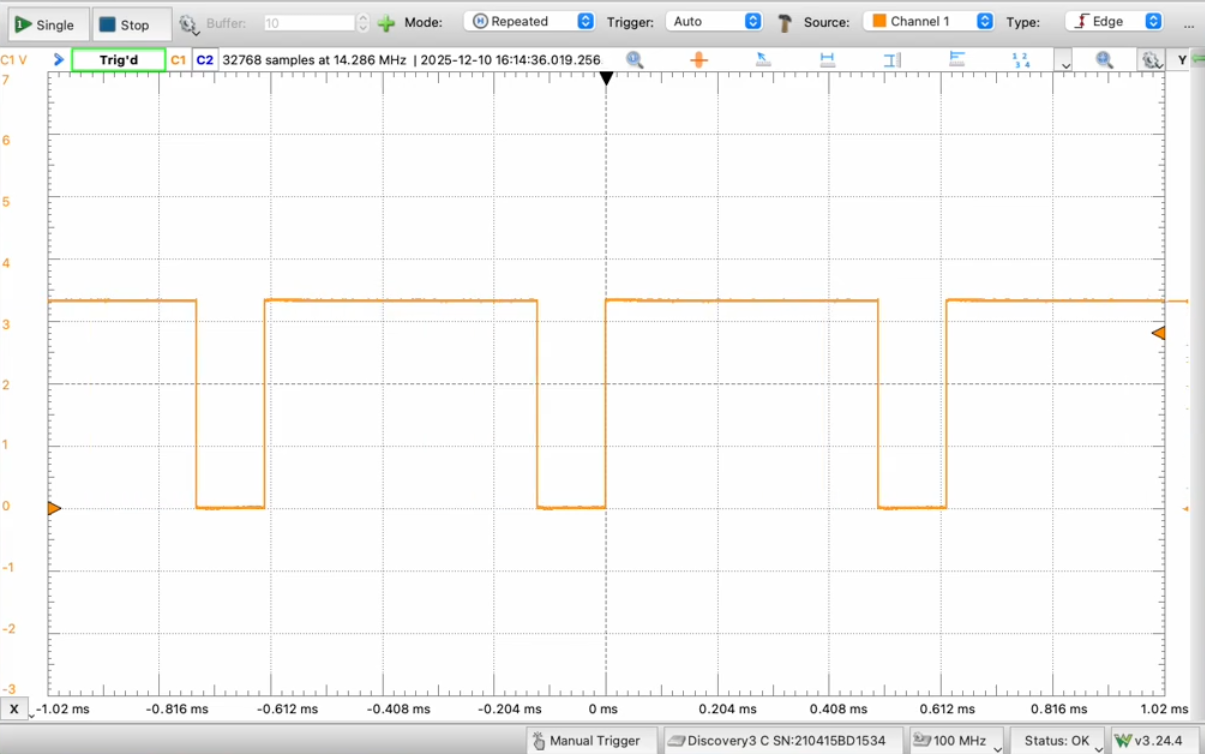
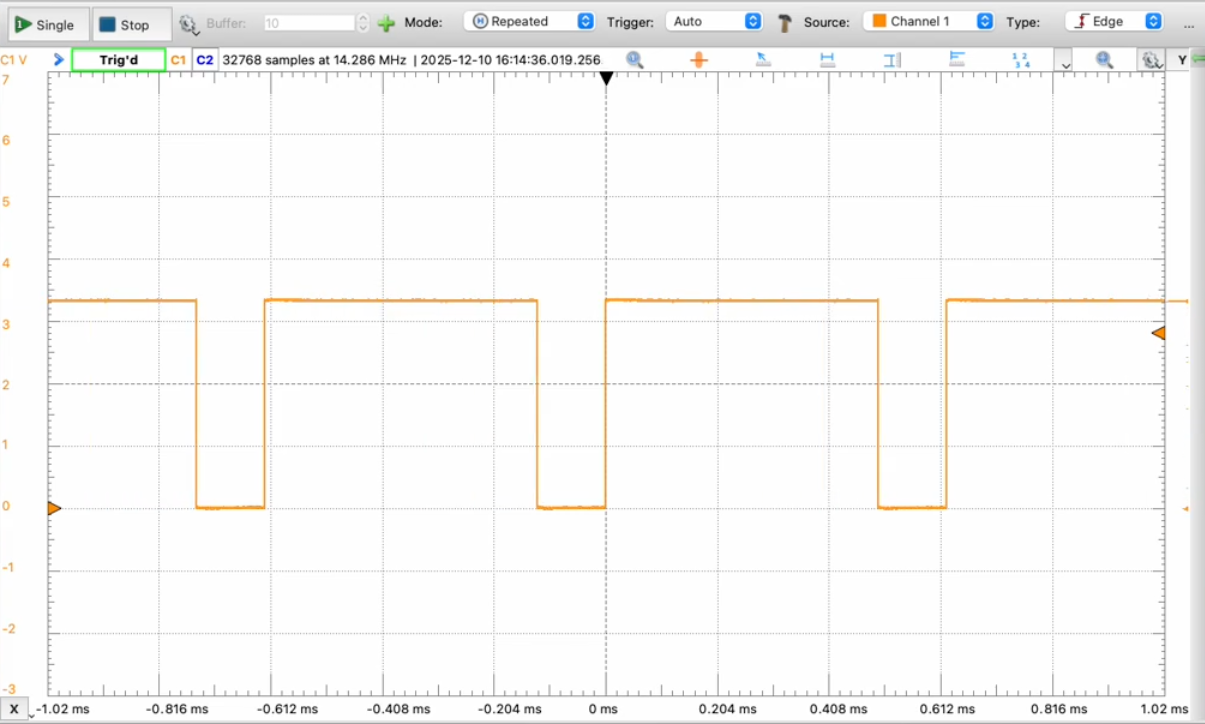
Day 11: crop the scope capture, project the motor circuit, and hand over
Cropped the Discovery banner off fig-pwm-scope.png. Added sl-day11-motor-circuit to
the deck -- the slide existed in the source but no deck entry projected it, which is
why the circuit was missing from the slides. Pointed fig-motor-circuit at
motor-circuit.png so Petra's own drawing can be dropped in with no source edit.

Stopped there deliberately: context was nearly exhausted, and applying four more
fixes on fumes is how half-applied edits get shipped. plans/day11-handover.md records
what is left, precisely enough to resume cold.

diff --git a/plans/day11-handover.md b/plans/day11-handover.md
@@ -1,0 +1,98 @@
+# Day 11 — handover: what is left after Petra's pass 3
+
+Written 2026-08-17, at the end of a session that ran out of context. The book and
+the deck are both built and clean; everything below is outstanding. Start a fresh
+session with `plans/CHAPTER-GENERATION-PROMPT.md`, then this file.
+
+**State:** `source/ch-motors.ptx` Day 11 (reading + Parts 1–6) and
+`assets/decks/day11.json` (47 slides). `build-all`, `check_rules`, `check_deck`,
+`check_starters` all clean. Gates 0, 1, 1.5, 2 and 3 have run; reviews are in
+`reviews/day11-gate{1,2,3}.md`. Petra has hand-passed the prose three times, so
+**her wording wins over any reviewer's**, and over anything in this file.
+
+---
+
+## 1. The motor circuit figure — she is supplying it
+
+She has the good one in her slides. **Tell her nothing more; she drops it at:**
+
+```
+assets/images/Day11-Motors/motor-circuit.png
+```
+
+That path is already referenced by `fig-motor-circuit` in the book and by
+`sl-day11-motor-circuit` in the deck, and is currently seeded with a placeholder I
+drew, which she has rejected. Overwriting the file is the whole job — **no source
+edit needed**. Delete nothing else.
+
+Her figure is the equivalent circuit from Day11 slide 7 (`slide07_img1.png`, 318×136,
+too small to use directly): V source, R_a, current i, and the motor as a generator
+producing e.
+
+## 2. `act-day11-speed-params` — three faults
+
+- **The formula in the introduction is wrong and is plain text.** It currently reads
+  `<m>\omega = V/(K_e + b R_a / K_t)</m>` inline in the introduction prose — check it
+  against `fig-equilibrium-speed`, fix it, and render it as the figure rather than
+  inline text so it looks like a formula. She has asked twice now for real math.
+- **The table is too small on the slide.** It is a `<tabular>` with `<col width>` of
+  55/45. Needs to project.
+- **Part (b) must be on the same slide.** I split the switch-on-current question out
+  into `act-day11-startup-current` purely to fix a 126 px overflow. She wants it back
+  on the slide with the table. So: merge `act-day11-startup-current` back into
+  `act-day11-speed-params` (and `inst-day11-startup-current` back into
+  `inst-day11-speed-params`), remove the two deck entries, and solve the overflow a
+  different way — the table itself is the space, so shrink the introduction, not the
+  content (S-9: split or compress spacing, never thin the prose).
+
+## 3. The H-bridge drawings — wrong transistors, wrong control-line placement
+
+`/tmp/mk_hbridge.py` is the generator (copy it into `scripts/` if it is to live on).
+It writes six files: `hbridge-in1-in2.svg`, `hbridge-cur-out1-out2.svg`,
+`hbridge-cur-out2-out1.svg`, `hbridge-brake.svg`, `hbridge-stop.svg`,
+`hbridge-shoot-through.svg`.
+
+Two corrections from her:
+
+- **Use the datasheet's transistor symbols**, the ones in her own figures — do not
+  substitute a different MOSFET rendering as I did. Reference: `slide11_665f7016.png`,
+  `slide12_8fcc0651.png`, `hbridge-in1-in2-ccw.png` (all still in the folder).
+- **IN1 goes to the left of the H and IN2 to the right, with the blue line, exactly as
+  she annotated it** in `hbridge-in1-in2-ccw.png`. My generator puts the control
+  brackets inside the bridge legs.
+
+Keep what is already right: stop mode drawn with the motor present and all four
+switches off; one drawing language across all six; the plain bridge carrying no traced
+current path, which is what stops it giving away `act-day11-diagonal` (P-15).
+
+## 4. `sl-day11-counter-compare` — bullets above the headline
+
+The slide has five `<li>` and a `ref` to `fig-pwm-counter-compare`, and the bullets
+render above the title. Try `room="compressed"`, or move some content to the figure
+caption. Check it in the player, not by measurement.
+
+## 5. Done this session, do not redo
+
+- `fig-pwm-scope.png` cropped to remove the "Discovery3 C" status bar (1205×754 → ×724).
+- `sl-day11-motor-circuit` added to the deck — it existed in the source but no deck
+  entry projected it, which is why the circuit was missing from the slides.
+
+## 6. Still open from Gate 3, not yet raised with her again
+
+- `tb6612-wiring-exercise2.png`: the D11/D12/D13 pin names are ~9 px and rotated, so
+  the slide asserts three pin assignments it cannot show. Needs callouts or a header
+  inset — her export.
+- Both wiring PNGs carry a clipped glyph along the top edge.
+- Projected `<xref>`s render as "Figure 11.2.12", a book number that means nothing on
+  the wall. The book needs the xref; the slide does not. Unresolved.
+- The day is ~25 min over 110. The defer order is in `plans/day11.md` and every task
+  ID in it was verified against the source.
+
+## 7. Then
+
+Delivery 2 has not been signed off. After these fixes, re-run the fit check
+(`AUTHORING-slides.md`, verbatim, with the crossfade killed and **the preview server
+stopped** — a running `http.server` holds `output/` and makes `build-all` fail with
+`rm: Directory not empty`), then hand her the deck.
+
+Nothing has been pushed. 15 commits sit on `main`.
